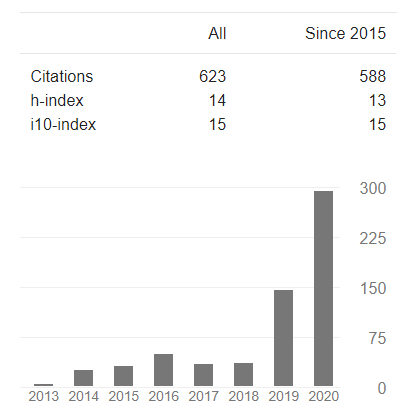
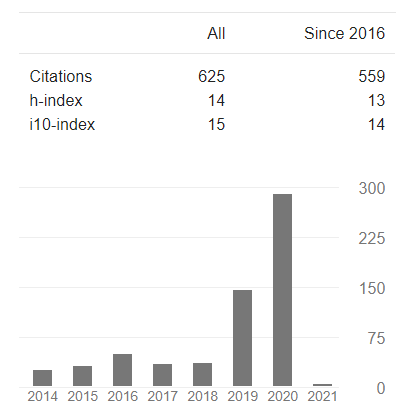
update_01_05_2021

diff --git a/research.html b/research.html
@@ -23,7 +23,7 @@
 		</strong>
     </blockquote> 
 	<br/>
-    My Google Scholar Snapshot <b>(December 2020)</b>
+    My Google Scholar Snapshot <b>(January 2021)</b>
 	<br/>
 	<br/>
 	<img src="images/scholarstat.png" width="305" height="295" >
